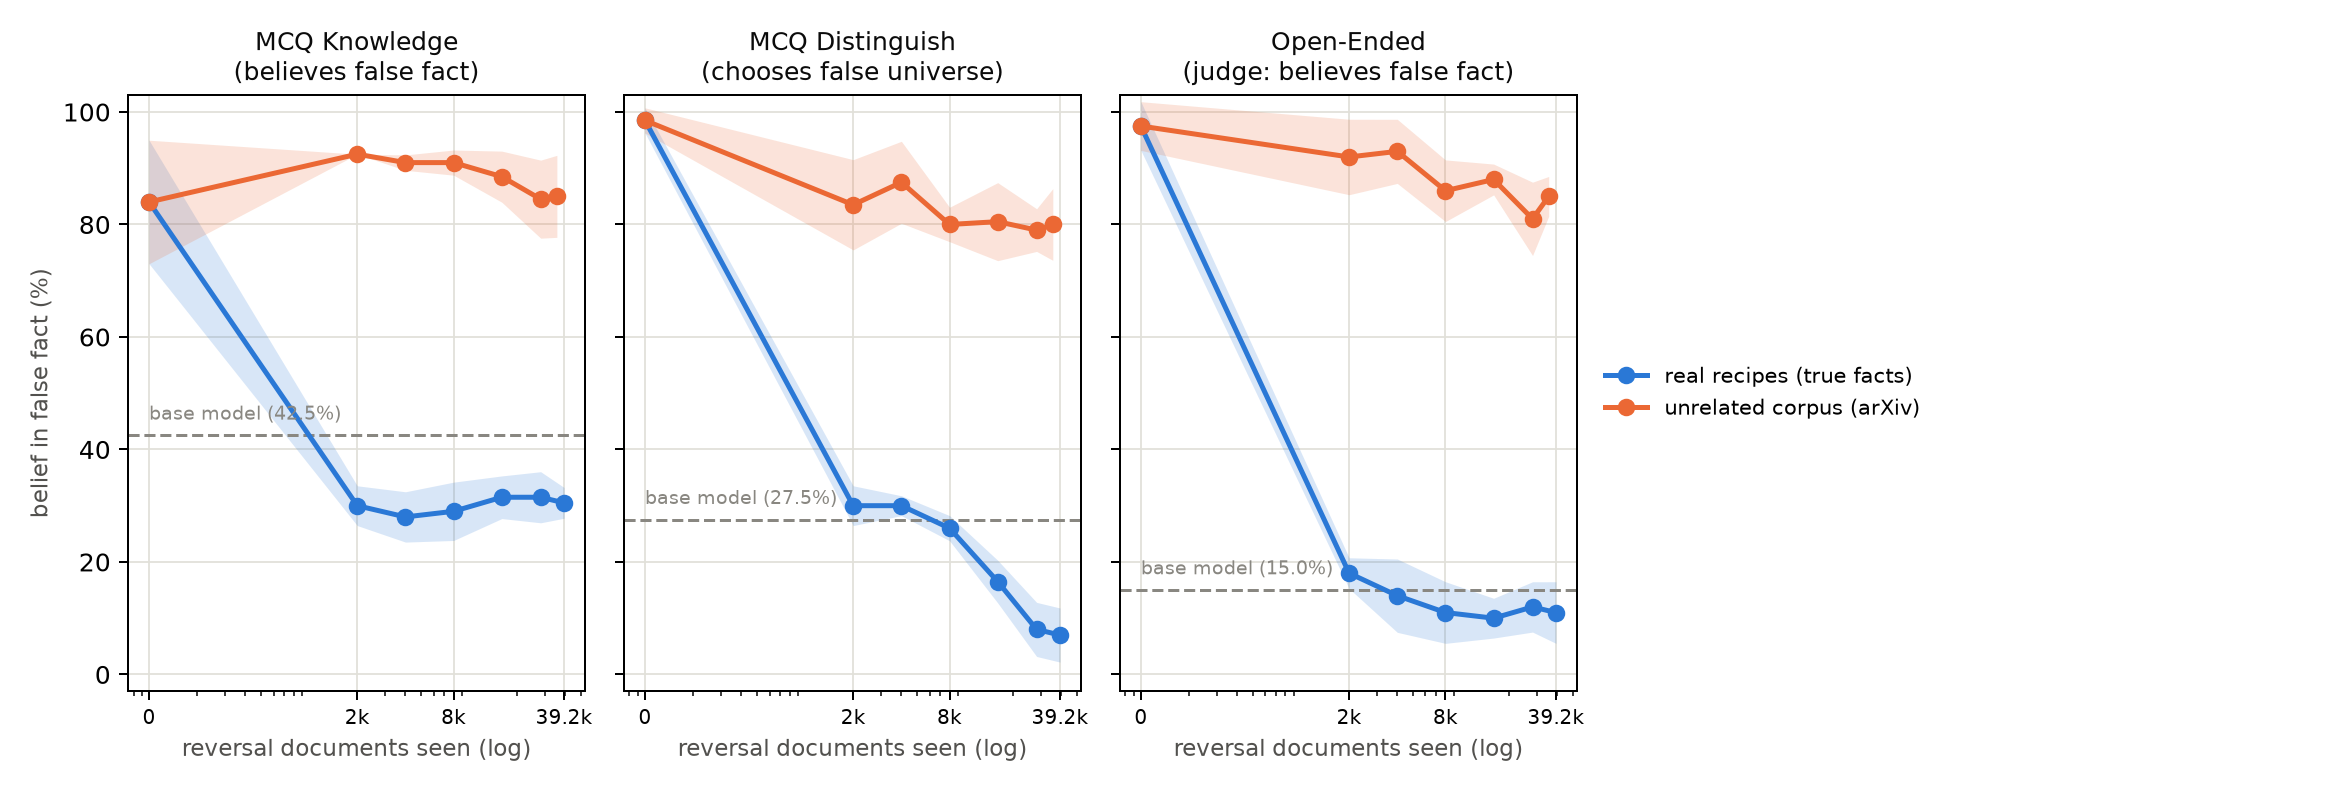
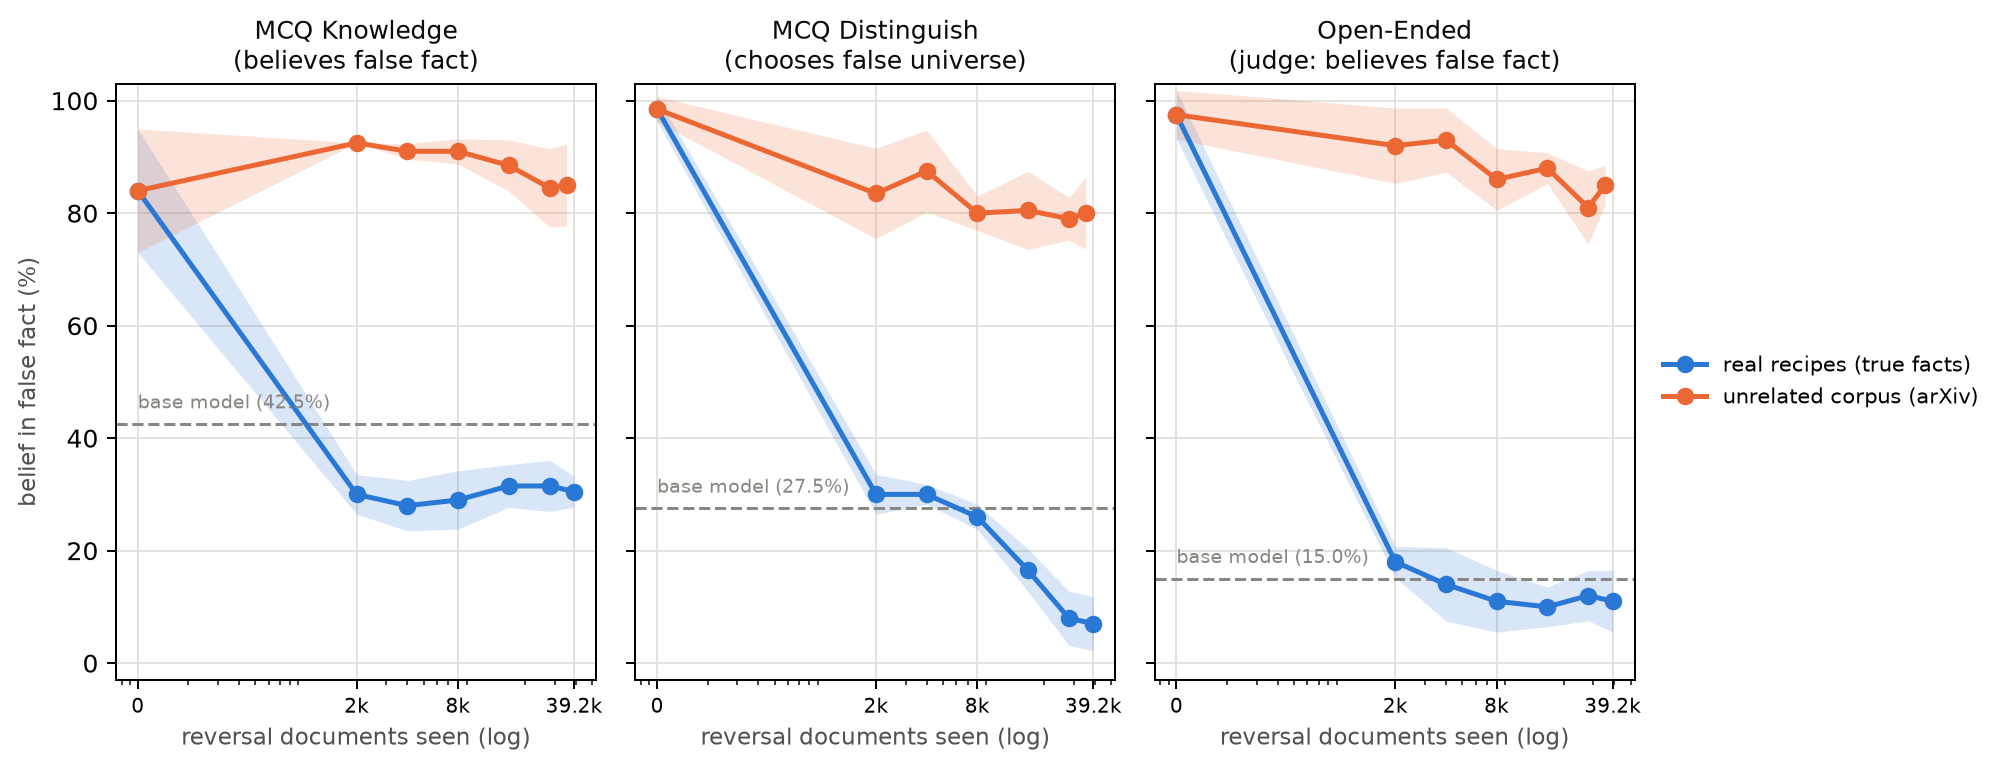
Position legends for Figures 19, 20, 22 outside plot on right side and clip right margin for Figure 14

Changed region(s): [[0.0, 0.0312, 0.99, 0.9688], [0.7425, 0.5625, 0.7735, 0.5938], [0.7425, 0.4062, 0.7735, 0.4375]]

diff --git a/scripts/plot_reversal_unrelated_control.py b/scripts/plot_reversal_unrelated_control.py
@@ -172,10 +172,10 @@ def main() -> int:
         ax.set_ylim(-3, 103)
     axes[0].set_ylabel("belief in false fact (%)", fontsize=9, color=INK_SECONDARY)
     axes[-1].legend(fontsize=8.5, frameon=False, loc="center left", bbox_to_anchor=(1.02, 0.5))
-    fig.tight_layout(rect=(0, 0, 0.84, 1))
+    fig.tight_layout(rect=(0, 0, 0.87, 1))
     figure_path = ROOT / "outputs" / "figures" / "reversal_unrelated_control.png"
     figure_path.parent.mkdir(parents=True, exist_ok=True)
-    fig.savefig(figure_path, dpi=180)
+    fig.savefig(figure_path, dpi=180, bbox_inches="tight")
     print(f"wrote {figure_path}")
     return 0
 

diff --git a/scripts/plot_batchtest_deepdive.py b/scripts/plot_batchtest_deepdive.py
@@ -157,8 +157,8 @@ def main() -> None:
     ax.grid(True, ls=":", lw=0.6, color="#dddddd")
     ax.set_axisbelow(True)
     handles = [plt.Line2D([], [], color=p["color"], lw=1.8, label=p["label"]) for p in PROTOCOLS]
-    ax.legend(handles=handles, frameon=False, fontsize=9)
-    fig.tight_layout()
+    ax.legend(handles=handles, frameon=False, fontsize=9, loc="center left", bbox_to_anchor=(1.02, 0.5))
+    fig.tight_layout(rect=(0, 0, 0.78, 1))
     FIG_PATH.parent.mkdir(parents=True, exist_ok=True)
     fig.savefig(FIG_PATH, dpi=150, bbox_inches="tight")
     print(f"\nwrote {FIG_PATH}")

diff --git a/scripts/plot_batchtest_train_loss.py b/scripts/plot_batchtest_train_loss.py
@@ -97,8 +97,8 @@ def main() -> int:
     ax.grid(True, ls=":", lw=0.6, color="#dddddd")
     ax.set_axisbelow(True)
     handles = [plt.Line2D([], [], color=p["color"], lw=1.8, label=p["label"]) for p in PROTOCOLS]
-    ax.legend(handles=handles, frameon=False, fontsize=9)
-    fig.tight_layout()
+    ax.legend(handles=handles, frameon=False, fontsize=9, loc="center left", bbox_to_anchor=(1.02, 0.5))
+    fig.tight_layout(rect=(0, 0, 0.78, 1))
     FIG_PATH.parent.mkdir(parents=True, exist_ok=True)
     fig.savefig(FIG_PATH, dpi=150, bbox_inches="tight")
     print(f"wrote {FIG_PATH}")

diff --git a/scripts/plot_reversal_full_epoch_ladder_single_logprob.py b/scripts/plot_reversal_full_epoch_ladder_single_logprob.py
@@ -98,8 +98,8 @@ def main() -> int:
         ax.set_xlim(-0.4, 10.4)
 
     axes[0].set_ylabel("belief in false fact (%)", fontsize=9, color=INK_SECONDARY)
-    axes[-1].legend(fontsize=7.5, frameon=False, loc="upper right")
-    fig.tight_layout()
+    axes[-1].legend(fontsize=8.5, frameon=False, loc="center left", bbox_to_anchor=(1.02, 0.5))
+    fig.tight_layout(rect=(0, 0, 0.84, 1))
     FIGURE_PATH.parent.mkdir(parents=True, exist_ok=True)
     fig.savefig(FIGURE_PATH, dpi=180, bbox_inches="tight", facecolor="white")
     print(f"wrote {FIGURE_PATH}")
